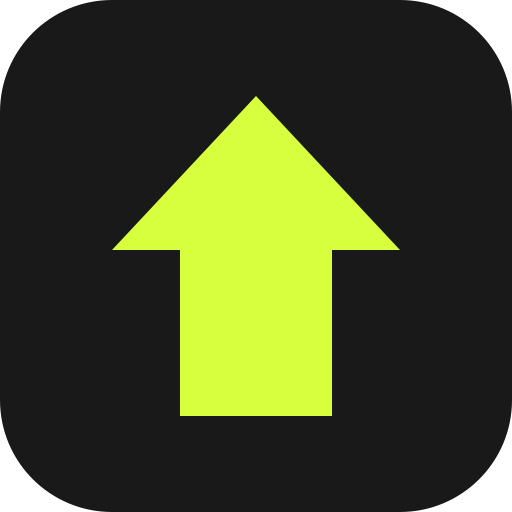
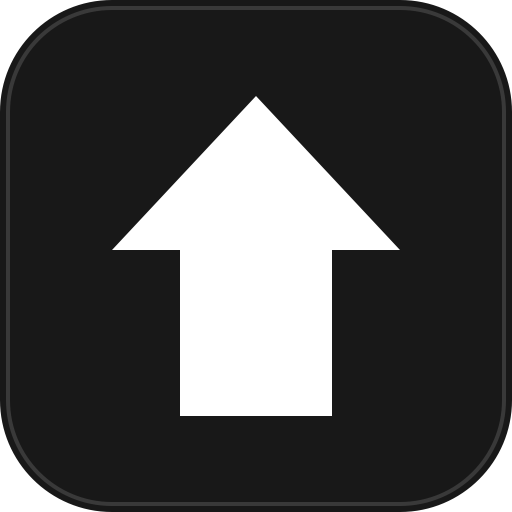
feat(tayo): skin to KILOS brand — Teko numerals, Space Mono, monochrome + earned brass
Off-brand lime/blue replaced with the app's design system (DESIGN.md):
self-hosted Space Mono UI + Teko display (served from the site's own
/fonts), token palette (#181818 ladder, white as the only accent,
8/14/999 radii), pill window chip, white primary buttons, elevation +
white rim for break takeovers instead of color. The one hue stays
earned: snack dots turn brass only on a perfect day. Icon regenerated
monochrome; manifest theme synced. 3 e2e specs green, both states
screenshot-verified.

diff --git a/tayo/index.html b/tayo/index.html
@@ -3,7 +3,7 @@
 <head>
   <meta charset="utf-8" />
   <meta name="viewport" content="width=device-width, initial-scale=1, viewport-fit=cover" />
-  <meta name="theme-color" content="#191919" />
+  <meta name="theme-color" content="#181818" />
   <title>Tayô — desk breaks</title>
   <!-- Own manifest + icon so Safari's "Add to Dock" installs a real-looking
        standalone mini-app (the widget-mode Gabe wants during 9–3). -->
@@ -11,90 +11,138 @@
   <link rel="apple-touch-icon" href="/tayo-icon-180.png" />
   <link rel="icon" type="image/png" href="/tayo-icon-180.png" />
   <style>
-    /* Kilos-dark, quiet-confidence. Self-contained: no fonts, no assets. */
-    * { margin: 0; padding: 0; box-sizing: border-box; }
+    /* KILOS skin — monochrome quiet confidence (DESIGN.md): Space Mono UI,
+       Teko display numerals, white as the only accent, brass reserved for
+       the earned moment (a perfect snack day). Fonts are the app's own
+       self-hosted files, served from the site root. */
+    @font-face {
+      font-family: 'Space Mono'; font-style: normal; font-weight: 400;
+      font-display: swap; src: url('/fonts/spacemono-400.woff2') format('woff2');
+    }
+    @font-face {
+      font-family: 'Space Mono'; font-style: normal; font-weight: 700;
+      font-display: swap; src: url('/fonts/spacemono-700.woff2') format('woff2');
+    }
+    @font-face {
+      font-family: 'Teko'; font-style: normal; font-weight: 600;
+      font-display: swap; src: url('/fonts/teko-600.woff2') format('woff2');
+    }
+    * { margin: 0; padding: 0; box-sizing: border-box; -webkit-tap-highlight-color: transparent; }
     :root {
-      --bg: #191919; --card: #222; --ink: #f1eee8; --soft: #9c9c9c;
-      --line: #333; --go: #d8ff3e; --calm: #7fb4ff;
+      --bg0: #181818; --bg: #222; --bg2: #2a2a2a; --bg3: #333;
+      --line: rgba(255, 255, 255, 0.08); --border: rgba(255, 255, 255, 0.14);
+      --text: #ebebeb; --text2: #8f8f8f; --muted: #4a4a4a; --white: #fff;
+      --pr: #c79a45; --pr-bright: #e7c87f;
+      --r-sm: 8px; --r-md: 14px; --r-pill: 999px;
     }
     html, body { height: 100%; }
     body {
-      background: var(--bg); color: var(--ink);
-      font-family: -apple-system, 'Segoe UI', Roboto, sans-serif;
+      background: var(--bg0); color: var(--text);
+      font-family: 'Space Mono', monospace;
       display: flex; flex-direction: column; max-width: 520px; margin: 0 auto;
       padding: max(18px, env(safe-area-inset-top)) 18px max(18px, env(safe-area-inset-bottom));
-      gap: 14px; min-height: 100dvh;
+      gap: 12px; min-height: 100dvh;
     }
-    .mono { font-variant-numeric: tabular-nums; letter-spacing: 0.04em; }
+    .mono { font-variant-numeric: tabular-nums; }
     header { display: flex; align-items: baseline; justify-content: space-between; }
-    header h1 { font-size: 20px; font-weight: 800; letter-spacing: 0.08em; }
-    header h1 span { color: var(--go); }
-    .window-chip { color: var(--soft); font-size: 13px; }
+    header h1 {
+      font-size: 15px; font-weight: 700; letter-spacing: 0.22em; color: var(--white);
+    }
+    header h1 span { color: var(--text2); font-weight: 400; }
+    .window-chip {
+      color: var(--text2); font-size: 11px; letter-spacing: 0.08em;
+      border: 1px solid var(--line); border-radius: var(--r-pill); padding: 4px 12px;
+    }
 
-    /* Idle: the big countdown to whatever's next */
+    /* Idle: the big countdown — numbers are the most-read thing */
     .stage {
       flex: 1; display: flex; flex-direction: column; justify-content: center;
-      align-items: center; text-align: center; gap: 10px; border-radius: 20px;
-      background: var(--card); border: 1px solid var(--line); padding: 28px 20px;
+      align-items: center; text-align: center; gap: 8px; border-radius: var(--r-md);
+      background: var(--bg); border: 1px solid var(--line); padding: 28px 20px;
     }
-    .stage .kicker { color: var(--soft); font-size: 13px; letter-spacing: 0.14em; }
-    .stage .count { font-size: 64px; font-weight: 800; line-height: 1; }
-    .stage .what { font-size: 16px; color: var(--ink); }
-    .stage .sub { font-size: 13px; color: var(--soft); max-width: 34ch; }
-    .stage.off .count { font-size: 34px; }
+    .stage .kicker {
+      color: var(--text2); font-size: 11px; letter-spacing: 0.18em;
+      text-transform: uppercase;
+    }
+    .stage .count {
+      font-family: 'Teko', sans-serif; font-weight: 600;
+      font-size: clamp(88px, 30vw, 128px); line-height: 0.92; color: var(--white);
+      letter-spacing: 0.01em;
+    }
+    .stage .what { font-size: 15px; color: var(--text); line-height: 1.5; }
+    .stage .sub { font-size: 12px; color: var(--text2); max-width: 36ch; line-height: 1.6; }
+    .stage.off .count { font-size: clamp(40px, 14vw, 56px); color: var(--text2); }
 
-    /* Break takeover */
-    .stage.due { background: #20240f; border-color: #4c531f; }
-    .stage.due .kicker { color: var(--go); }
-    .stage.due .what { font-size: 26px; font-weight: 700; line-height: 1.3; }
-    .stage.due.stand { background: #101a26; border-color: #274157; }
-    .stage.due.stand .kicker { color: var(--calm); }
+    /* Break takeover — elevation + white rim, no color (the app's language) */
+    .stage.due {
+      background: var(--bg2); border-color: var(--border);
+      box-shadow: 0 0 24px rgba(255, 255, 255, 0.04), 0 12px 40px rgba(0, 0, 0, 0.5);
+    }
+    .stage.due .kicker { color: var(--white); }
+    .stage.due .what {
+      font-family: 'Teko', sans-serif; font-weight: 600; font-size: 34px;
+      line-height: 1.05; color: var(--white); text-transform: uppercase;
+      letter-spacing: 0.02em; max-width: 18ch;
+    }
 
-    .btnrow { display: flex; gap: 10px; margin-top: 14px; }
+    .btnrow { display: flex; gap: 10px; margin-top: 16px; }
     button {
-      font: inherit; border: 1px solid var(--line); background: #2b2b2b;
-      color: var(--ink); border-radius: 12px; padding: 14px 22px; font-weight: 700;
-      min-height: 48px; cursor: pointer;
+      font: inherit; font-weight: 700; letter-spacing: 0.06em;
+      border: 1px solid var(--border); background: var(--bg3); color: var(--text);
+      border-radius: var(--r-sm); padding: 14px 24px; min-height: 48px; cursor: pointer;
     }
-    button.primary { background: var(--go); color: #141400; border-color: var(--go); }
-    .stand button.primary { background: var(--calm); color: #04121f; border-color: var(--calm); }
+    button.primary { background: var(--white); color: #111; border-color: var(--white); }
 
     /* Eyes banner — subtle, never a takeover */
     .eyes {
       display: none; align-items: center; justify-content: space-between; gap: 10px;
-      background: var(--card); border: 1px solid #2c3a2c; border-radius: 14px;
-      padding: 12px 14px; font-size: 14px; color: var(--soft);
+      background: var(--bg); border: 1px solid var(--line); border-radius: var(--r-md);
+      padding: 12px 14px; font-size: 12px; color: var(--text2); line-height: 1.5;
     }
     .eyes.on { display: flex; }
-    .eyes b { color: var(--ink); font-weight: 600; }
+    .eyes b { color: var(--text); font-weight: 700; }
+    .eyes .mono {
+      font-family: 'Teko', sans-serif; font-size: 26px; line-height: 1;
+      color: var(--white);
+    }
 
-    /* Today strip */
+    /* Today strip — dots go brass only on a perfect day (the earned moment) */
     .today { display: flex; align-items: center; justify-content: space-between; }
     .dots { display: flex; gap: 6px; }
-    .dot { width: 12px; height: 12px; border-radius: 50%; background: #333; }
-    .dot.hit { background: var(--go); }
-    .dot.miss { background: #4a3030; }
-    .today .label { color: var(--soft); font-size: 13px; }
+    .dot { width: 12px; height: 12px; border-radius: 50%; background: var(--bg3); }
+    .dot.hit { background: var(--white); }
+    .dot.miss { background: var(--muted); }
+    .dots.gold .dot.hit {
+      background: var(--pr);
+      box-shadow: 0 0 8px rgba(199, 154, 69, 0.42);
+    }
+    .today .label {
+      color: var(--text2); font-size: 11px; letter-spacing: 0.14em;
+      text-transform: uppercase;
+    }
 
     /* Settings */
-    details { border: 1px solid var(--line); border-radius: 14px; background: var(--card); }
-    summary { padding: 12px 14px; color: var(--soft); font-size: 14px; cursor: pointer; list-style: none; }
+    details { border: 1px solid var(--line); border-radius: var(--r-md); background: var(--bg); }
+    summary {
+      padding: 12px 14px; color: var(--text2); font-size: 11px; cursor: pointer;
+      list-style: none; letter-spacing: 0.14em; text-transform: uppercase;
+    }
     summary::-webkit-details-marker { display: none; }
-    .cfg { padding: 0 14px 14px; display: grid; gap: 10px; font-size: 14px; }
+    .cfg { padding: 0 14px 14px; display: grid; gap: 10px; font-size: 13px; }
     .cfg label { display: flex; align-items: center; justify-content: space-between; gap: 10px; }
     .cfg input[type='time'], .cfg input[type='text'] {
-      font: inherit; background: #1d1d1d; color: var(--ink); border: 1px solid var(--line);
-      border-radius: 8px; padding: 8px 10px;
+      font: inherit; font-size: 13px; background: var(--bg0); color: var(--text);
+      border: 1px solid var(--border); border-radius: var(--r-sm); padding: 8px 10px;
     }
     .cfg input[type='text'] { width: 100%; }
-    .cfg input[type='checkbox'] { width: 20px; height: 20px; accent-color: var(--go); }
-    .cfg .note { color: var(--soft); font-size: 12px; line-height: 1.5; }
+    .cfg input[type='checkbox'] { width: 20px; height: 20px; accent-color: var(--white); }
+    .cfg .note { color: var(--text2); font-size: 11px; line-height: 1.6; }
     .cfg .why { border-top: 1px solid var(--line); padding-top: 10px; }
   </style>
 </head>
 <body>
   <header>
-    <h1>TAY<span>Ô</span></h1>
+    <h1>TAYÔ <span>· KILOS</span></h1>
     <div class="window-chip mono" id="chip">9:00–15:00</div>
   </header>
 
@@ -331,6 +379,12 @@
     function renderDots() {
       const { day } = log();
       const snackSlots = slots().filter((s) => s.type === 'snack');
+      // brass only on a perfect day — the app's one earned-moment hue
+      $('dots').classList.toggle(
+        'gold',
+        snackSlots.length > 0 &&
+          snackSlots.every((s) => day.slots[s.id] === 'hit'),
+      );
       $('dots').innerHTML = snackSlots
         .map((s) => {
           const o = day.slots[s.id];
